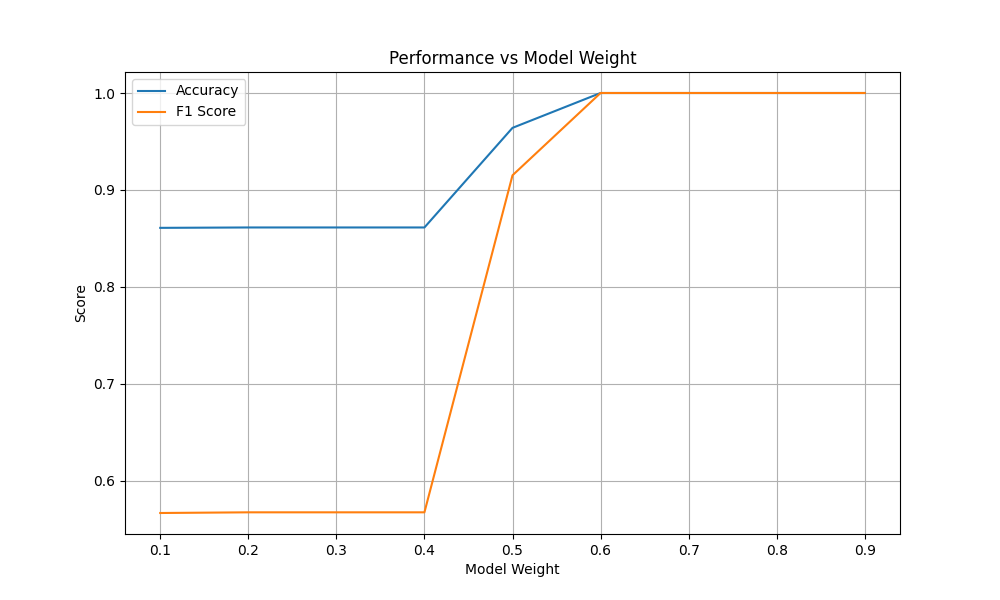
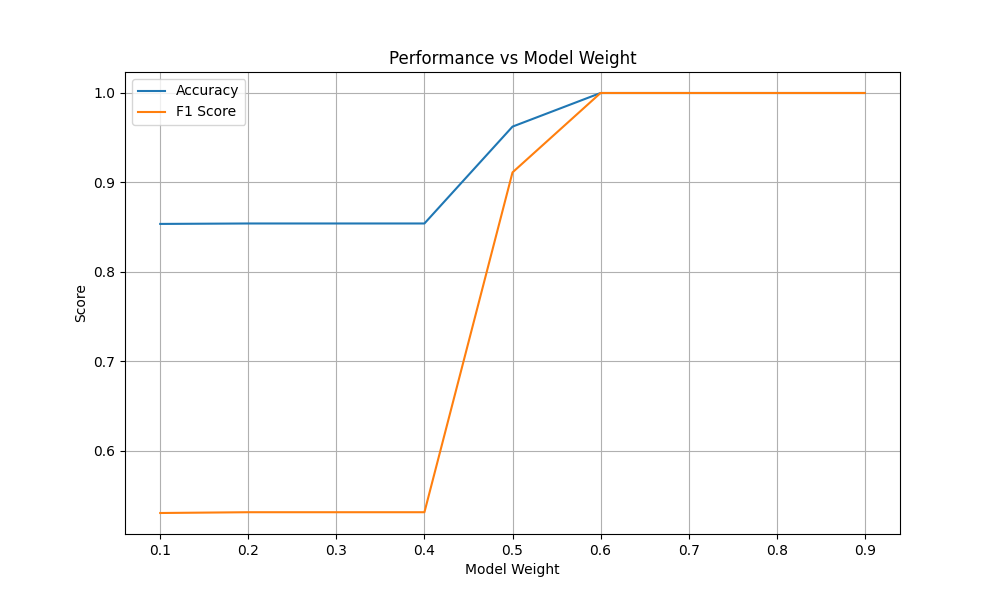
Fixed data leakage in similarity embeddings

diff --git a/Application.py b/Application.py
@@ -19,6 +19,8 @@ from sklearn.metrics.pairwise import cosine_similarity
 import joblib
 import os
 import datetime
+from sklearn.model_selection import train_test_split
+import logging
 
 class RobBERTClassificationPipeline:
     def __init__(self, model_path: str, tokenizer_path: str):
@@ -72,27 +74,57 @@ class RobBERTClassificationPipeline:
             raise Exception(f"Error initializing pipeline: {str(e)}")
 
     def _create_training_embeddings(self):
-        """Create and save embeddings for training data."""
-        # Load training data
-        df = pd.read_csv('merged_data.csv', index_col=0)
-        
-        # Clean texts
-        self.training_texts = []
-        for idx, row in df.iterrows():
-            text = self.clean_dutch_text(row['geanonimiseerd_doc_inhoud'])
-            label = row['target']
-            self.training_texts.append({
-                'text': text,
-                'label': label
-            })
-        
-        # Create embeddings
-        texts_only = [item['text'] for item in self.training_texts]
-        self.training_embeddings = self.sentence_model.encode(texts_only)
-        
-        # Save embeddings and texts
-        joblib.dump(self.training_embeddings, self.embeddings_file)
-        joblib.dump(self.training_texts, self.training_texts_file)
+        """Create and save embeddings for training data only."""
+        try:
+            # Ensure models directory exists
+            os.makedirs('models', exist_ok=True)
+            
+            # Load full data
+            data_path = os.path.join('data', 'merged_data.csv')
+            if not os.path.exists(data_path):
+                raise FileNotFoundError(f"Data file not found at {data_path}")
+            
+            df = pd.read_csv(data_path, index_col=0)
+            
+            # Important: Create a unique identifier for each document
+            df['doc_id'] = df.index
+            
+            # Split into train/test using the same split as in training
+            train_df, test_df = train_test_split(
+                df, 
+                test_size=0.2, 
+                random_state=55,  # Use same random state as training
+                stratify=df['target']
+            )
+            
+            # Save test set IDs to ensure we can identify test documents
+            test_ids = set(test_df['doc_id'].values)
+            joblib.dump(test_ids, os.path.join('models', 'test_set_ids.joblib'))
+            
+            # Clean texts (only from training data)
+            self.training_texts = []
+            for idx, row in train_df.iterrows():
+                text = self.clean_dutch_text(row['geanonimiseerd_doc_inhoud'])
+                label = row['target']
+                self.training_texts.append({
+                    'text': text,
+                    'label': label,
+                    'doc_id': row['doc_id']  # Store document ID
+                })
+            
+            # Create embeddings
+            texts_only = [item['text'] for item in self.training_texts]
+            self.training_embeddings = self.sentence_model.encode(texts_only)
+            
+            # Save embeddings and texts
+            joblib.dump(self.training_embeddings, self.embeddings_file)
+            joblib.dump(self.training_texts, self.training_texts_file)
+            
+            logging.info(f"Successfully created and saved embeddings for {len(texts_only)} training documents")
+            
+        except Exception as e:
+            logging.error(f"Error creating embeddings: {str(e)}")
+            raise Exception(f"Failed to create embeddings: {str(e)}")
 
     def clean_dutch_text(self, text, stopword_list=None):
         if stopword_list is None:
@@ -235,6 +267,11 @@ class RobBERTClassificationPipeline:
             
             similar_cases = []
             for idx in top_indices:
+                # Add similarity threshold
+                if similarities[idx] > 0.98:  # If similarity is too high, might be test case
+                    logging.warning(f"Very high similarity ({similarities[idx]:.3f}) detected. Possible test case.")
+                    continue
+                    
                 similar_cases.append({
                     'text': self.training_texts[idx]['text'],
                     'label': self.training_texts[idx]['label'],

diff --git a/src/evaluate_weights.py b/src/evaluate_weights.py
@@ -7,6 +7,7 @@ import joblib
 from typing import List, Dict, Tuple
 import matplotlib.pyplot as plt
 from tqdm import tqdm
+from sklearn.model_selection import KFold
 
 def load_data():
     """Load the training data and embeddings"""
@@ -62,51 +63,55 @@ def calculate_composite_prediction(
     
     return composite_pred, composite_confidence
 
-def evaluate_weights(
+def evaluate_weights_cv(
     embeddings: np.ndarray,
     texts: List[Dict],
     model_predictions: np.ndarray,
     model_probabilities: np.ndarray,
     true_labels: np.ndarray,
-    weight_range: np.ndarray
+    weight_range: np.ndarray,
+    n_splits: int = 5
 ) -> Dict:
-    """Evaluate different weight combinations"""
+    """Evaluate different weight combinations using cross-validation"""
+    kf = KFold(n_splits=n_splits, shuffle=True, random_state=55)
     results = []
     
     for weight in tqdm(weight_range):
-        composite_preds = []
-        composite_confs = []
+        fold_scores = {'accuracy': [], 'f1': []}
         
-        # For each sample, calculate composite prediction
-        for i in range(len(texts)):
-            # Get similar cases (excluding the current case)
-            mask = np.ones(len(texts), dtype=bool)
-            mask[i] = False
-            similar_cases = find_similar_cases(
-                embeddings[i],
-                embeddings[mask],
-                [texts[j] for j, m in enumerate(mask) if m],
-                n_cases=2
-            )
+        for train_idx, val_idx in kf.split(embeddings):
+            composite_preds = []
+            composite_confs = []
             
-            # Calculate composite prediction
-            pred, conf = calculate_composite_prediction(
-                model_predictions[i],
-                model_probabilities[i],
-                similar_cases,
-                weight
-            )
-            composite_preds.append(pred)
-            composite_confs.append(conf)
+            # For each validation sample
+            for i in val_idx:
+                # Get similar cases from training set only
+                similar_cases = find_similar_cases(
+                    embeddings[i],
+                    embeddings[train_idx],
+                    [texts[j] for j in train_idx],
+                    n_cases=2
+                )
+                
+                # Calculate composite prediction
+                pred, conf = calculate_composite_prediction(
+                    model_predictions[i],
+                    model_probabilities[i],
+                    similar_cases,
+                    weight
+                )
+                composite_preds.append(pred)
+                composite_confs.append(conf)
+            
+            # Calculate metrics for this fold
+            fold_scores['accuracy'].append(accuracy_score(true_labels[val_idx], composite_preds))
+            fold_scores['f1'].append(f1_score(true_labels[val_idx], composite_preds))
         
-        # Calculate metrics
-        accuracy = accuracy_score(true_labels, composite_preds)
-        f1 = f1_score(true_labels, composite_preds)
-        
+        # Average scores across folds
         results.append({
             'model_weight': weight,
-            'accuracy': accuracy,
-            'f1': f1
+            'accuracy': np.mean(fold_scores['accuracy']),
+            'f1': np.mean(fold_scores['f1'])
         })
     
     return pd.DataFrame(results)
@@ -138,7 +143,7 @@ def main():
     # Evaluate different weights
     print("Evaluating weights...")
     weight_range = np.arange(0.1, 1.0, 0.1)
-    results = evaluate_weights(
+    results = evaluate_weights_cv(
         embeddings,
         texts,
         model_predictions,
